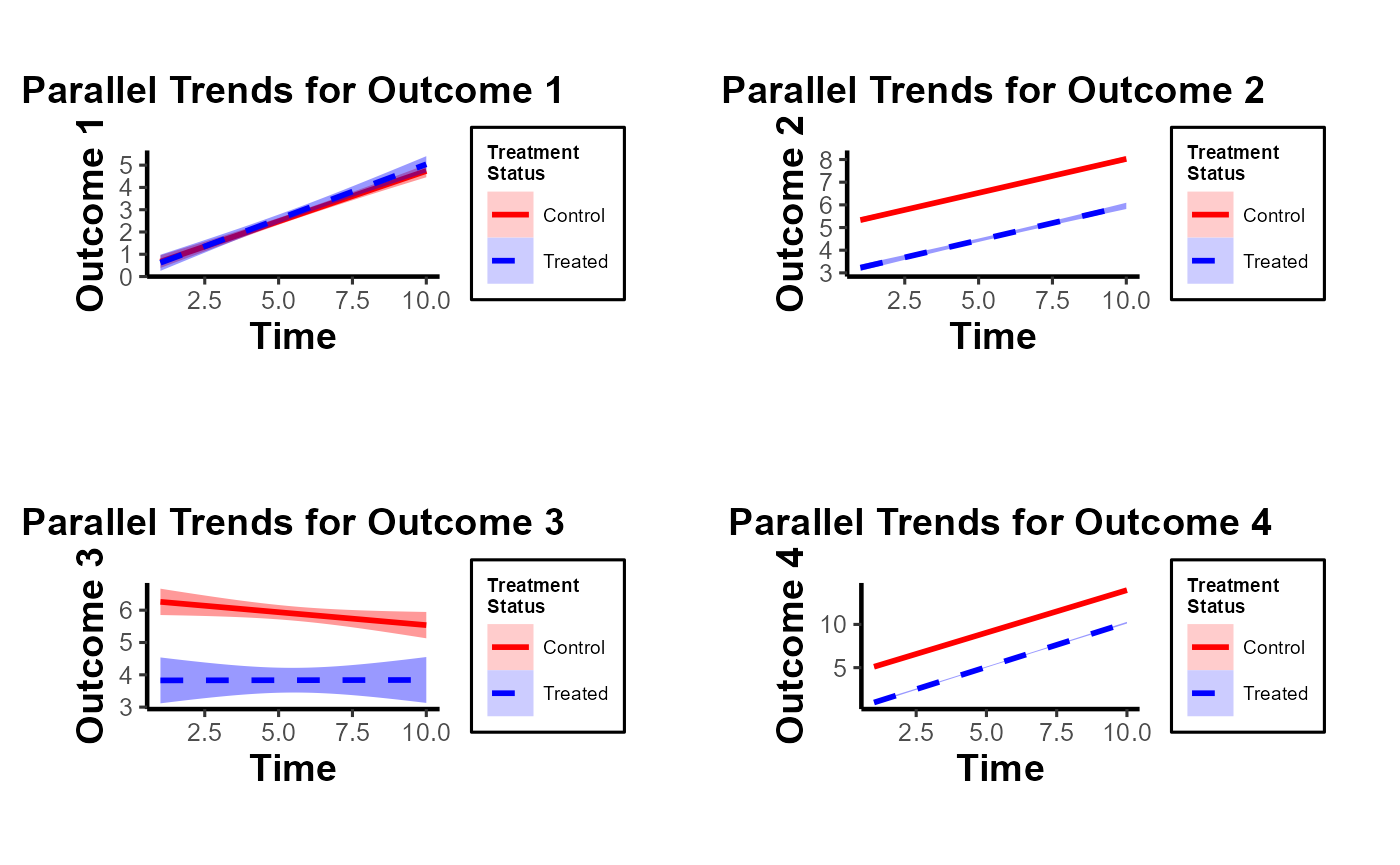
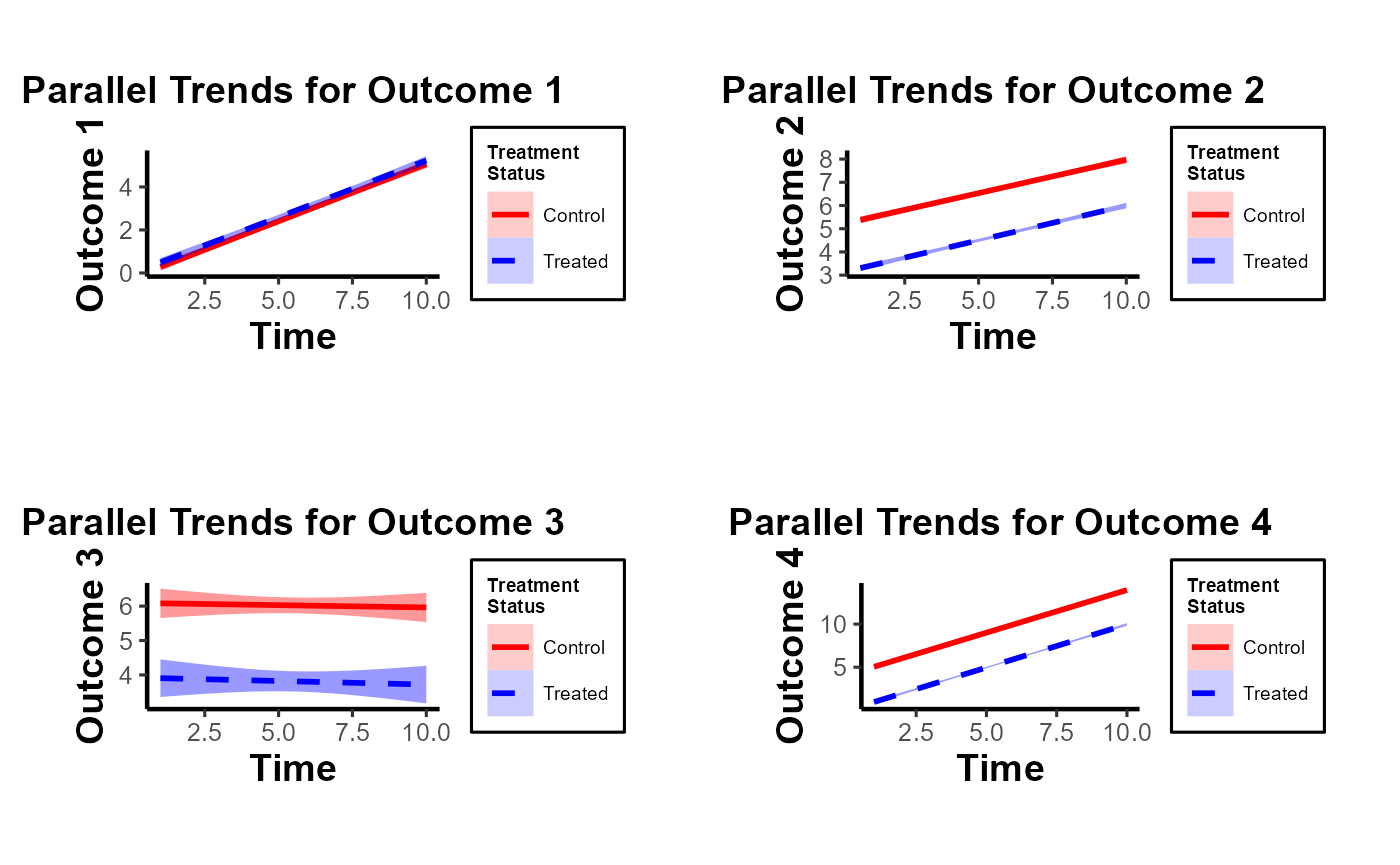
fix vignettes

diff --git a/docs/articles/did.html b/docs/articles/did.html
@@ -82,7 +82,7 @@
                         <h4 data-toc-skip class="author">Mike
 Nguyen</h4>
             
-            <h4 data-toc-skip class="date">2023-09-08</h4>
+            <h4 data-toc-skip class="date">2023-09-09</h4>
       
       
       <div class="hidden name"><code>did.Rmd</code></div>
@@ -172,28 +172,28 @@ data:</p>
 <span></span>
 <span><span class="fu"><a href="https://rdrr.io/r/utils/head.html" class="external-link">head</a></span><span class="op">(</span><span class="va">data</span><span class="op">)</span></span>
 <span><span class="co">#&gt;   entity time treatment   outcome1 outcome2 outcome3  outcome4</span></span>
-<span><span class="co">#&gt; 1      1    1   Treated -1.7558338 2.716953 3.325307 0.2908246</span></span>
-<span><span class="co">#&gt; 2      1    2   Treated -0.3461784 2.658579 6.310410 1.4738487</span></span>
-<span><span class="co">#&gt; 3      1    3   Treated  2.3530290 3.282804 3.516803 4.5091702</span></span>
-<span><span class="co">#&gt; 4      1    4   Treated  0.1005157 3.116852 6.294996 5.4503327</span></span>
-<span><span class="co">#&gt; 5      1    5   Treated  0.2211590 3.660691 2.188404 4.4828248</span></span>
-<span><span class="co">#&gt; 6      1    6   Treated  4.5324337 5.119069 9.814895 6.5192868</span></span>
+<span><span class="co">#&gt; 1      1    1   Treated -5.3131403 3.450764 2.744064 0.6632921</span></span>
+<span><span class="co">#&gt; 2      1    2   Treated  0.6370150 2.163610 6.109587 4.2020380</span></span>
+<span><span class="co">#&gt; 3      1    3   Treated  0.7054758 3.038674 8.221058 2.6263798</span></span>
+<span><span class="co">#&gt; 4      1    4   Treated  1.9661725 4.437347 1.930521 3.5027505</span></span>
+<span><span class="co">#&gt; 5      1    5   Treated  1.7764244 5.635415 6.769623 4.6361040</span></span>
+<span><span class="co">#&gt; 6      1    6   Treated  8.3221549 6.839614 1.297497 5.1279865</span></span>
 <span></span>
 <span><span class="fu"><a href="https://rdrr.io/r/base/summary.html" class="external-link">summary</a></span><span class="op">(</span><span class="va">data</span><span class="op">)</span></span>
 <span><span class="co">#&gt;      entity            time       treatment            outcome1     </span></span>
-<span><span class="co">#&gt;  Min.   :  1.00   Min.   : 1.0   Length:1000        Min.   :-4.763  </span></span>
-<span><span class="co">#&gt;  1st Qu.: 25.75   1st Qu.: 3.0   Class :character   1st Qu.: 1.028  </span></span>
-<span><span class="co">#&gt;  Median : 50.50   Median : 5.5   Mode  :character   Median : 2.775  </span></span>
-<span><span class="co">#&gt;  Mean   : 50.50   Mean   : 5.5                      Mean   : 2.767  </span></span>
-<span><span class="co">#&gt;  3rd Qu.: 75.25   3rd Qu.: 8.0                      3rd Qu.: 4.464  </span></span>
-<span><span class="co">#&gt;  Max.   :100.00   Max.   :10.0                      Max.   : 9.427  </span></span>
-<span><span class="co">#&gt;     outcome2          outcome3         outcome4      </span></span>
-<span><span class="co">#&gt;  Min.   : 0.1916   Min.   :-7.307   Min.   :-0.8795  </span></span>
-<span><span class="co">#&gt;  1st Qu.: 4.4147   1st Qu.: 2.945   1st Qu.: 5.0105  </span></span>
-<span><span class="co">#&gt;  Median : 5.6811   Median : 4.890   Median : 7.5927  </span></span>
-<span><span class="co">#&gt;  Mean   : 5.6349   Mean   : 4.866   Mean   : 7.5589  </span></span>
-<span><span class="co">#&gt;  3rd Qu.: 6.8154   3rd Qu.: 6.705   3rd Qu.:10.1260  </span></span>
-<span><span class="co">#&gt;  Max.   :11.0203   Max.   :20.200   Max.   :17.0101</span></span></code></pre></div>
+<span><span class="co">#&gt;  Min.   :  1.00   Min.   : 1.0   Length:1000        Min.   :-5.733  </span></span>
+<span><span class="co">#&gt;  1st Qu.: 25.75   1st Qu.: 3.0   Class :character   1st Qu.: 1.019  </span></span>
+<span><span class="co">#&gt;  Median : 50.50   Median : 5.5   Mode  :character   Median : 2.700  </span></span>
+<span><span class="co">#&gt;  Mean   : 50.50   Mean   : 5.5                      Mean   : 2.765  </span></span>
+<span><span class="co">#&gt;  3rd Qu.: 75.25   3rd Qu.: 8.0                      3rd Qu.: 4.586  </span></span>
+<span><span class="co">#&gt;  Max.   :100.00   Max.   :10.0                      Max.   : 9.741  </span></span>
+<span><span class="co">#&gt;     outcome2         outcome3         outcome4     </span></span>
+<span><span class="co">#&gt;  Min.   : 1.168   Min.   :-8.999   Min.   :-1.564  </span></span>
+<span><span class="co">#&gt;  1st Qu.: 4.439   1st Qu.: 3.035   1st Qu.: 4.965  </span></span>
+<span><span class="co">#&gt;  Median : 5.665   Median : 4.887   Median : 7.432  </span></span>
+<span><span class="co">#&gt;  Mean   : 5.663   Mean   : 4.917   Mean   : 7.480  </span></span>
+<span><span class="co">#&gt;  3rd Qu.: 6.783   3rd Qu.: 6.889   3rd Qu.:10.118  </span></span>
+<span><span class="co">#&gt;  Max.   :10.434   Max.   :19.099   Max.   :16.299</span></span></code></pre></div>
 <p>Visualizing Trends with <code>plot_par_trends</code> Invoke the
 <code>plot_par_trends</code> function using the sample data:</p>
 <div class="sourceCode" id="cb4"><pre class="downlit sourceCode r">
@@ -1024,6 +1024,11 @@ proceed:</p>
 <div class="section level4">
 <h4 id="balance-trends-over-pre-treatment-periods">Balance Trends over Pre-treatment Periods<a class="anchor" aria-label="anchor" href="#balance-trends-over-pre-treatment-periods"></a>
 </h4>
+<p>In the original <code>PanelMatch</code> package, the function
+<code>get_covariate_balance</code> does not return a <code>ggplot</code>
+object. Therefore, it is necessary to construct our own visualization.
+However, one can utilize the output dataset from
+<code>get_covariate_balance</code> for this purpose.</p>
 <div class="sourceCode" id="cb21"><pre class="downlit sourceCode r">
 <code class="sourceCode R"><span><span class="va">PM.results.ps.weight</span> <span class="op">&lt;-</span></span>
 <span>    <span class="fu"><a href="https://rdrr.io/pkg/PanelMatch/man/PanelMatch.html" class="external-link">PanelMatch</a></span><span class="op">(</span></span>
@@ -1051,6 +1056,9 @@ proceed:</p>
 <span></span>
 <span><span class="fu"><a href="../reference/plot_covariate_balance_pretrend.html">plot_covariate_balance_pretrend</a></span><span class="op">(</span><span class="va">df</span><span class="op">)</span></span></code></pre></div>
 <p><img src="did_files/figure-html/unnamed-chunk-19-1.png" width="700"></p>
+<p>We must also examine multiple matching and refining methods to ensure
+that we have robust evidence for covariate balance over the
+pre-treatment time period.</p>
 </div>
 </div>
 </div>

diff --git a/docs/articles/introduction.html b/docs/articles/introduction.html
@@ -82,7 +82,7 @@
                         <h4 data-toc-skip class="author">Mike
 Nguyen</h4>
             
-            <h4 data-toc-skip class="date">2023-09-08</h4>
+            <h4 data-toc-skip class="date">2023-09-09</h4>
       
       
       <div class="hidden name"><code>introduction.Rmd</code></div>
